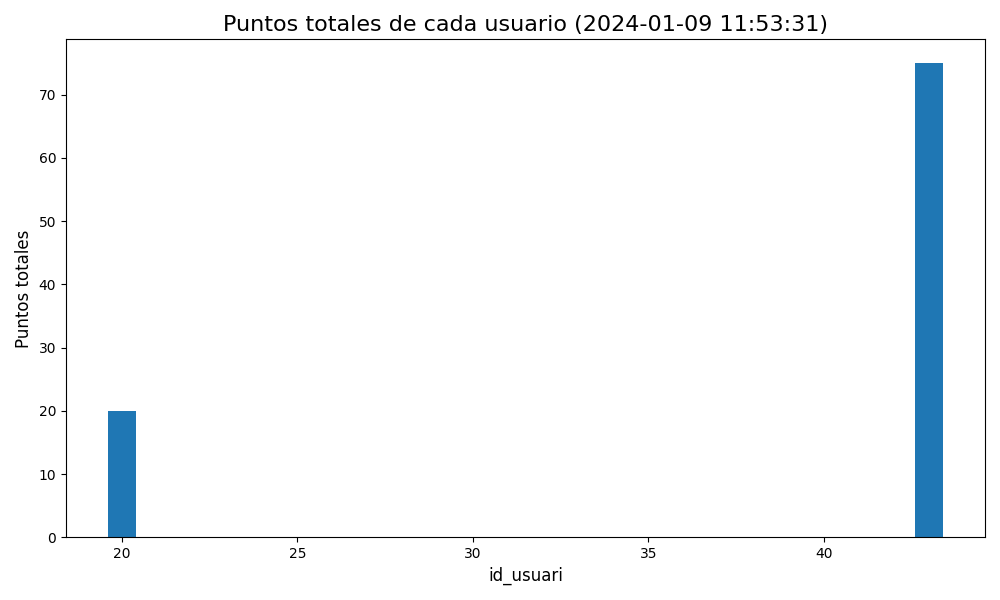
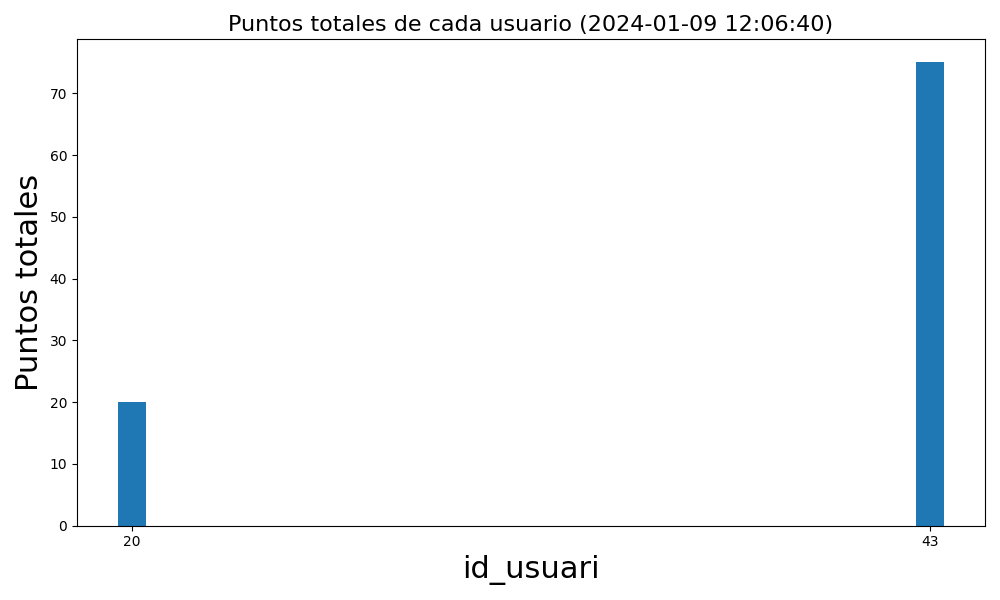
stats millorades

diff --git a/backend/stats.py b/backend/stats.py
@@ -107,7 +107,7 @@ def graficar_puntos_por_usuario(df, filename):
 
     plt.xlabel("id_usuari", fontsize=12)
     plt.ylabel("Puntos totales", fontsize=12)
-
+    plt.xticks(df["_id"])
     # Guardar la figura en un archivo
     plt.tight_layout()
     plt.savefig(filename)
@@ -117,7 +117,6 @@ def graficar_puntos_por_usuario(df, filename):
 def dificultatRespostes():
     conexion = establecer_conexion()
     resultados = obtener_respuestas_correctas_por_usuario_y_dificultad(conexion)
-    print(resultados)
 
     df = pd.DataFrame(resultados, columns=["_id", "count"])
     df = df.sort_values("_id")
@@ -128,6 +127,7 @@ def dificultatRespostes():
 def puntsRespostes():
     conexion = establecer_conexion()
     resultados = obtener_puntos_de_respuestas_correctas_por_usuario(conexion)
+    print(resultados)
 
     df = pd.DataFrame(resultados, columns=["_id", "puntos"])
     df = df.sort_values("_id")
